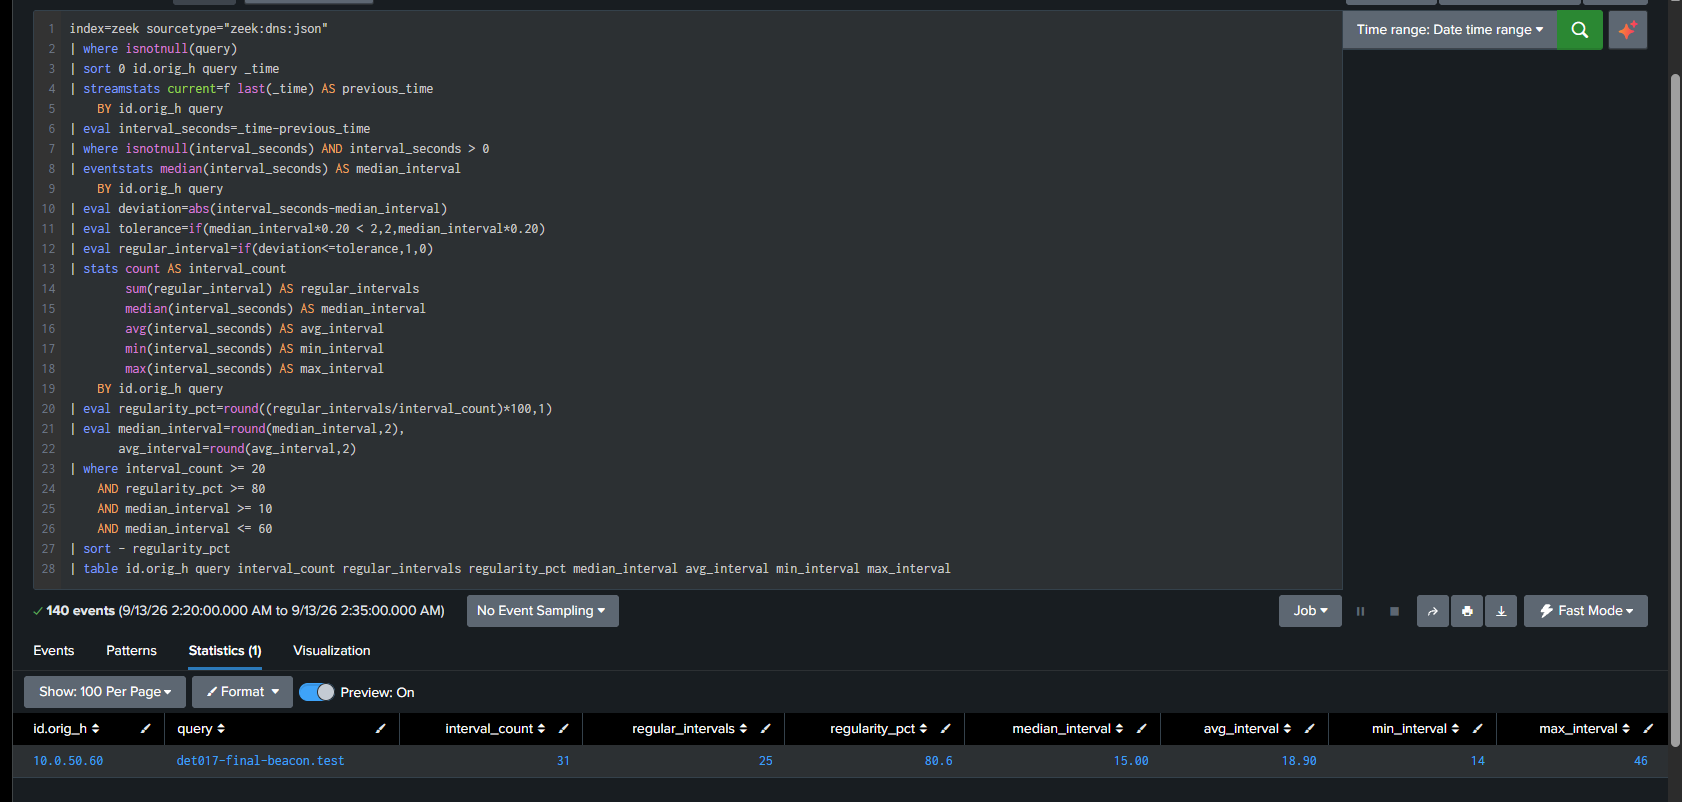
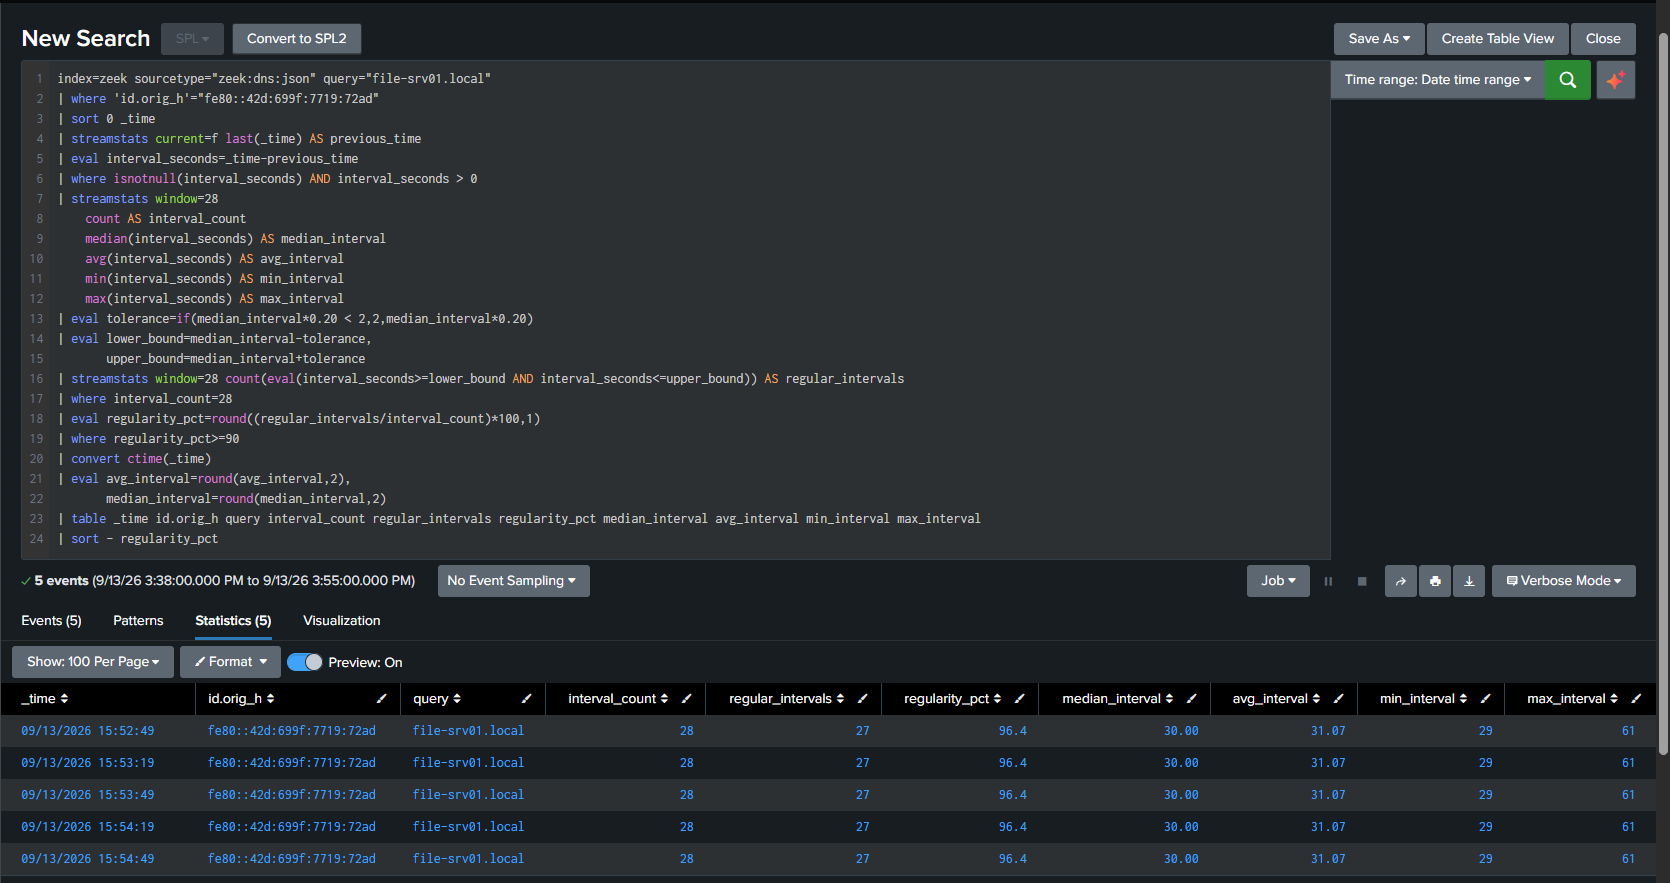
Fix DET-017 false-positive evidence and documentation (#22)

diff --git a/detections/splunk/DET-017-suspicious-dns-beaconing.md b/detections/splunk/DET-017-suspicious-dns-beaconing.md
@@ -162,9 +162,21 @@ The domain does not need to be a known IOC. Conversely, periodicity does not mak
 
 ### 1. Production-Window True Positive Validation
 
-The production-window search retained the controlled DNS beacon from KALI-OPS01 to `det017-final-beacon.test` and returned the expected timing statistics.
+The earlier production-window validation detected the controlled DNS beacon from KALI-OPS01 to `det017-beacon.test` in a 15-minute search window. This screenshot predates the later `det017-final-beacon.test` validation and shows the following result:
 
-![DET-017 production-window True Positive validation](../../screenshots/DET-017-02-production-window-validation.png)
+| Field | Visible result |
+|---|---|
+| `id.orig_h` | `10.0.50.60` |
+| `query` | `det017-beacon.test` |
+| `interval_count` | `32` |
+| `regular_intervals` | `29` |
+| `regularity_pct` | `90.6%` |
+| `median_interval` | `15.00` seconds |
+| `avg_interval` | `16.41` seconds |
+| `min_interval` | `13` seconds |
+| `max_interval` | `30` seconds |
+
+![DET-017 earlier production-window validation for det017-beacon.test](../../screenshots/DET-017-02-production-window-validation.png)
 
 ### 2. Negative Validation
 
@@ -193,6 +205,20 @@ The controlled beacon caused the scheduled DET-017 alert to appear in Splunk Tri
 ### 6. False-Positive Discovery
 
 Legitimate periodic DNS activity for `file-srv01.local` satisfied the original timing thresholds with `96.4%` regularity and a 30-second median interval. This observed false positive led to the explicit `.local` and `.arpa` namespace exclusions in the final production search.
+
+The false-positive evidence screenshot shows five overlapping 28-interval windows for this source and query, each with the following statistics:
+
+| Field | Visible result |
+|---|---|
+| `id.orig_h` | `fe80::42d:699f:7719:72ad` |
+| `query` | `file-srv01.local` |
+| `interval_count` | `28` |
+| `regular_intervals` | `27` |
+| `regularity_pct` | `96.4%` |
+| `median_interval` | `30.00` seconds |
+| `avg_interval` | `31.07` seconds |
+| `min_interval` | `29` seconds |
+| `max_interval` | `61` seconds |
 
 ![DET-017 file-srv01.local false-positive discovery](../../screenshots/DET-017-08-false-positive-local-dns.png)
 
